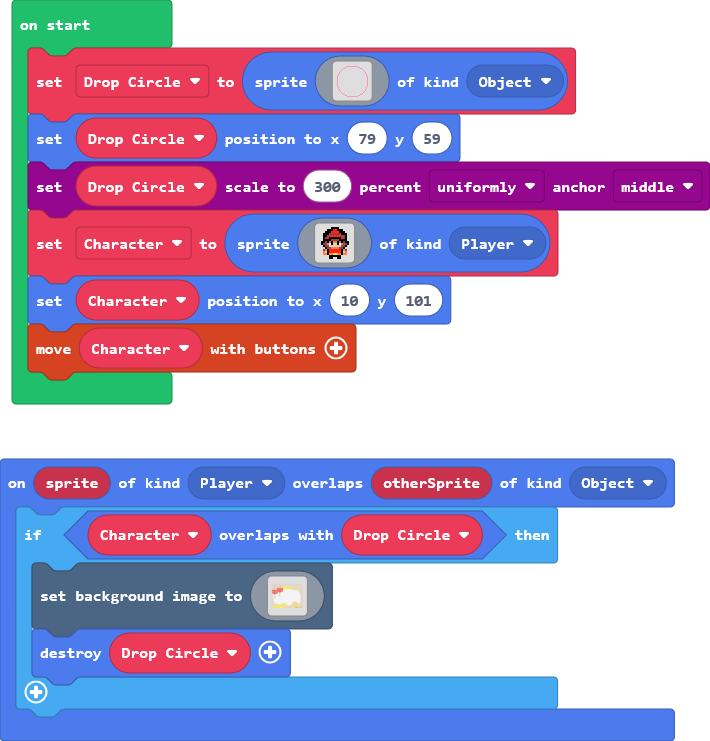
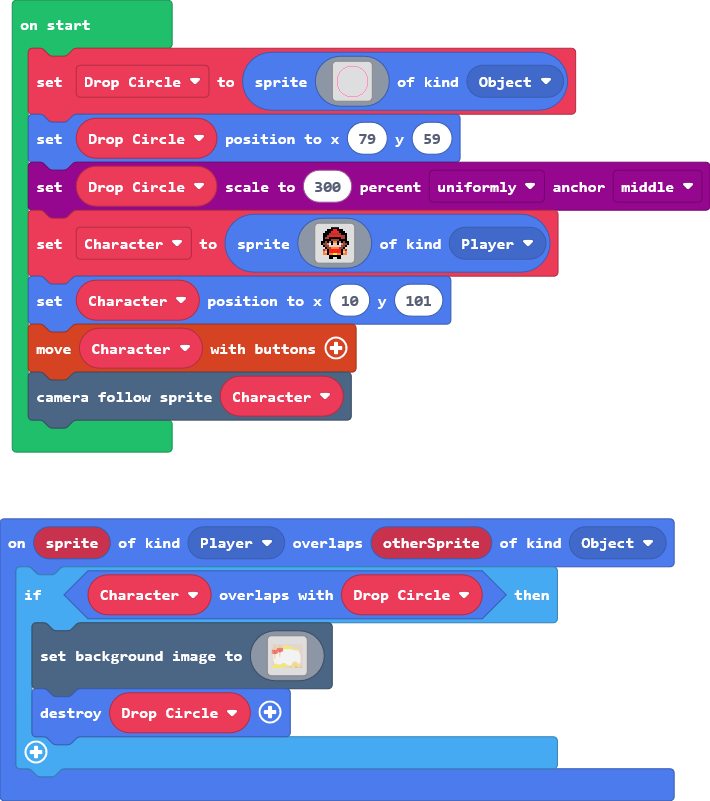
Import tilemaps

diff --git a/tilemap.g.ts b/tilemap.g.ts
@@ -1,0 +1,39 @@
+// Auto-generated code. Do not edit.
+namespace myTiles {
+    //% fixedInstance jres blockIdentity=images._tile
+    export const transparency16 = image.ofBuffer(hex``);
+
+    helpers._registerFactory("tilemap", function(name: string) {
+        switch(helpers.stringTrim(name)) {
+            case "level1":
+            case "level1":return tiles.createTilemap(hex`1000100000000000000000000000000000000000000000000000000000000000000000000000000000000000000000000000000000000000000000000000000000000000000000000000000000000000000000000000000000000000000000000000000000000000000000000000000000000000000000000000000000000000000000000000000000000000000000000000000000000000000000000000000000000000000000000000000000000000000000000000000000000000000000000000000000000000000000000000000000000000000000000000000000000000000000000000000000000000000000000000000000000000000000000000000000000000`, img`
+. . . . . . . . . . . . . . . . 
+. . . . . . . . . . . . . . . . 
+. . . . . . . . . . . . . . . . 
+. . . . . . . . . . . . . . . . 
+. . . . . . . . . . . . . . . . 
+. . . . . . . . . . . . . . . . 
+. . . . . . . . . . . . . . . . 
+. . . . . . . . . . . . . . . . 
+. . . . . . . . . . . . . . . . 
+. . . . . . . . . . . . . . . . 
+. . . . . . . . . . . . . . . . 
+. . . . . . . . . . . . . . . . 
+. . . . . . . . . . . . . . . . 
+. . . . . . . . . . . . . . . . 
+. . . . . . . . . . . . . . . . 
+. . . . . . . . . . . . . . . . 
+`, [myTiles.transparency16], TileScale.Sixteen);
+        }
+        return null;
+    })
+
+    helpers._registerFactory("tile", function(name: string) {
+        switch(helpers.stringTrim(name)) {
+            case "transparency16":return transparency16;
+        }
+        return null;
+    })
+
+}
+// Auto-generated code. Do not edit.

diff --git a/main.ts b/main.ts
@@ -186,3 +186,4 @@ Character = sprites.create(img`
     `, SpriteKind.Player)
 Character.setPosition(10, 101)
 controller.moveSprite(Character)
+scene.cameraFollowSprite(Character)
